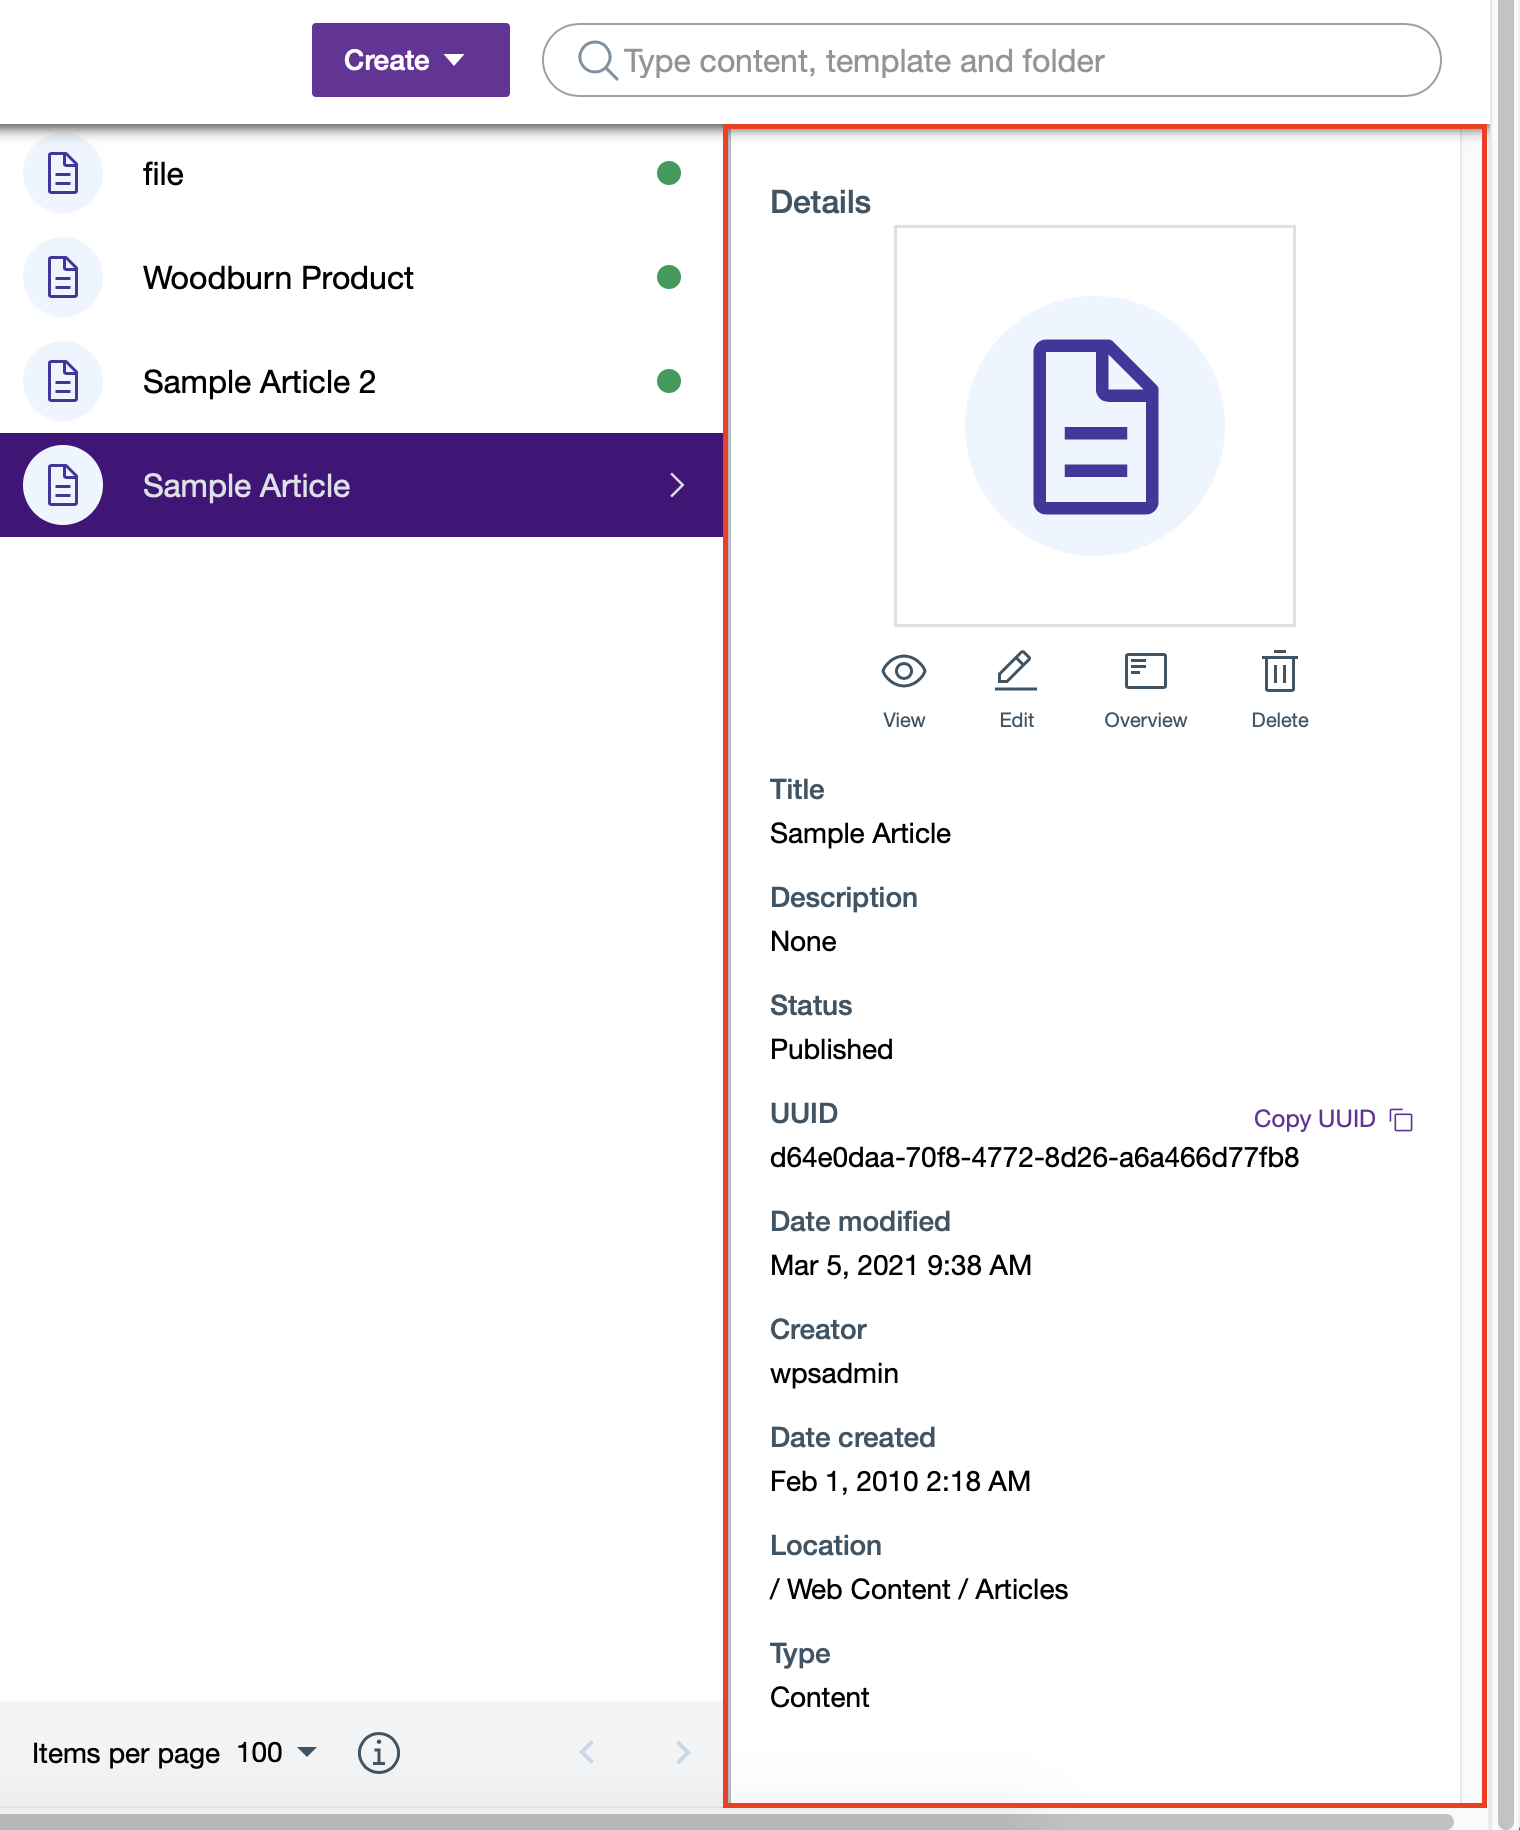
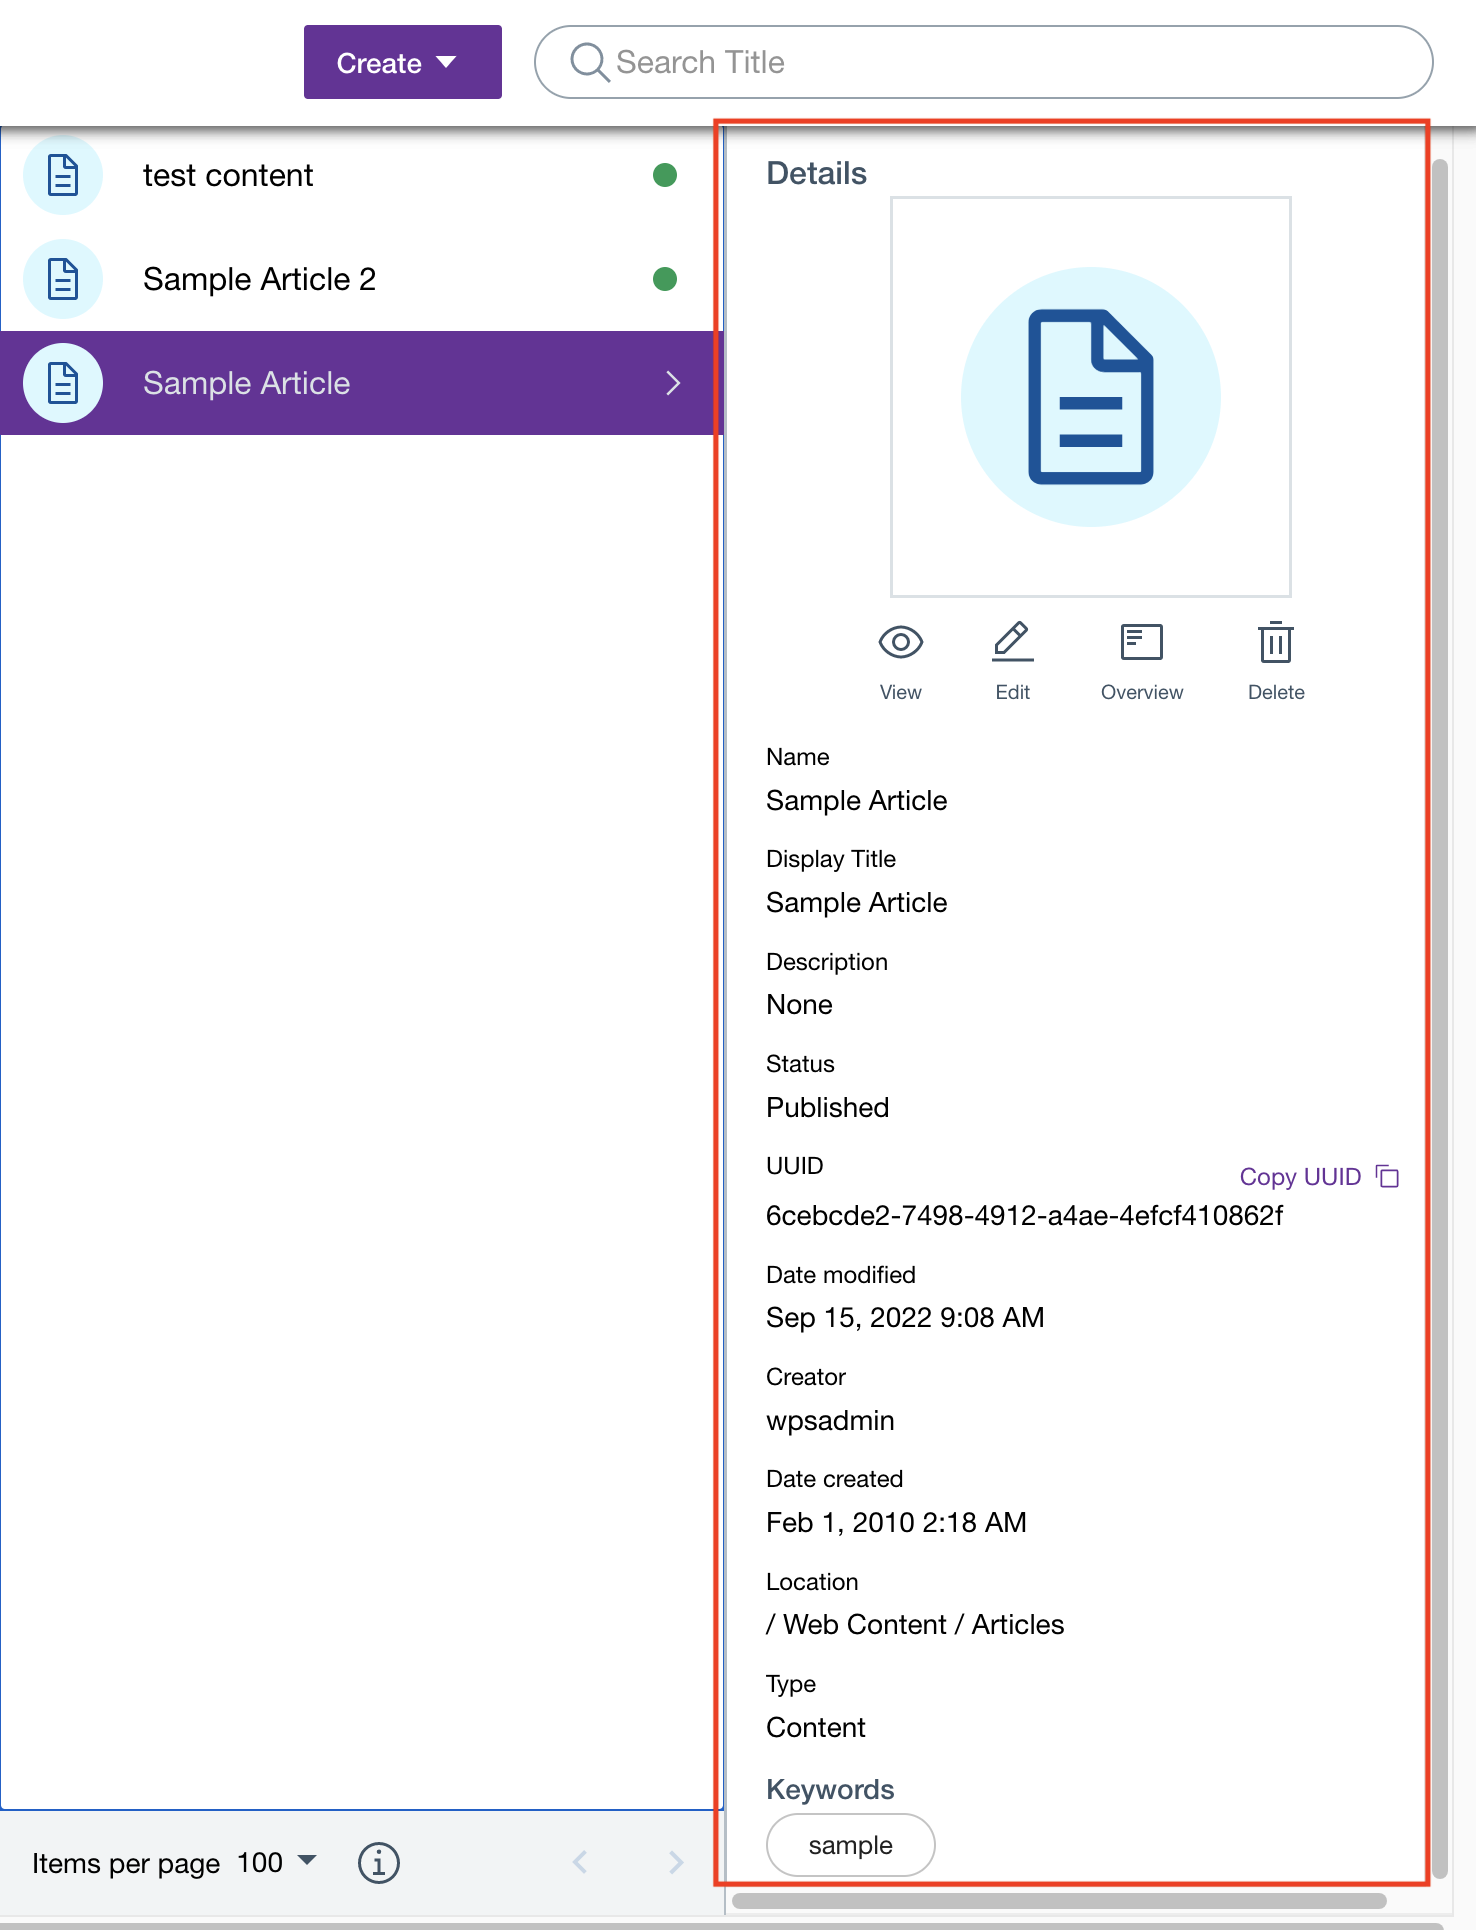
Add keywords in Content Composer

diff --git a/docs/manage_content/content_composer/usage/author_and_manage_content_items/author_content_items.md b/docs/manage_content/content_composer/usage/author_and_manage_content_items/author_content_items.md
@@ -98,6 +98,54 @@ The **Dashboard** view allows users to perform content authoring actions.
     ![Authoring actions on HCL Content Composer Dashboard](../../../../assets/Authoring_actions_via_HCL_CC_Dashboard.png)
 
 
+## Create new content with default keywords
+
+Follow the steps to create a new content with auto-populated keywords from the Dashboard view:
+
+1.  From the HCL Digital Experience 9.5 Content Composer Dashboard, locate your content template with Default Content Keywords, hover to the icon to display checkbox then click it.
+    
+    ![](../../../../assets/HCL_Content_Composer_DefaultKeyword_Checkbox.png)
+
+2.  Click **Create Content** in the actions bar.
+
+    ![](../../../../assets/HCL_Content_Composer_DefaultKeyword_ActionBar.png)
+
+3.  The Content Template and Keywords in Properties will be auto populated as shown below.
+
+    ![](../../../../assets/HCL_Content_Composer_DefaultKeyword.png)
+
+4.  Complete the fields on the **Content** tab, of which the content author will be directed to by default.
+5.  When done, select **Save** to save your settings and create your new content, or **Save and Close** which will create your new content with the saved settings and will redirect you to the new content's location in the Content Composer dashboard.
+
+
+## Create new content and add/remove keywords
+
+Follow the steps to create a new content and add keywords from the Dashboard view:
+
+1.  From the HCL Digital Experience 9.5 Content Composer Dashboard, locate your content template, hover to the icon to display checkbox then click it.
+    
+    ![](../../../../assets/HCL_Content_Composer_Sample_Template.png)
+
+2.  Click **Create Content** in the actions bar.
+
+    ![](../../../../assets/HCL_Content_Composer_Sample_Template_Create_Content.png)
+
+3.  Click the **Properties** icon, which is on the right side as shown below.
+
+    ![](../../../../assets/HCL_Content_Composer_Properties_Tab.png)
+
+4.  Add a keyword by inputting in the Keywords Field shown below. You can also add multiple keywords by adding a delimeter (,) in between the keywords.
+
+    ![](../../../../assets/HCL_Content_Composer_Content_Add_Keywords.png)
+
+5. If you want to remove a keyword, just click the 'x' button of the keyword you want to delete as shown below.
+
+    ![](../../../../assets/HCL_Content_Composer_Content_Remove_Keyword.png)
+
+6.  Complete the fields on the **Content** tab, of which the content author will be directed to by default.
+7.  When done, select **Save** to save your settings and create your new content, or **Save and Close** which will create your new content with the saved settings and keywords and will redirect you to the new content's location in the Content Composer dashboard.
+
+
 ## HCL Digital Experience Solution Feedback
 
 HCL Digital Experience is interested in your experience and feedback working with HCL Digital Experience 9.5 release software. To offer comments or issues on your findings, please access the [HCL Digital Experience 9.5 Feedback Reporting application](https://www.hclleap.com/apps/secure/org/app/158bbc7c-f357-4ef0-8023-654dd90780d4/launch/index.html?form=F_Form1){:target="_blank"}.

diff --git a/docs/manage_content/content_composer/usage/access_content_cont_comp.md b/docs/manage_content/content_composer/usage/access_content_cont_comp.md
@@ -53,6 +53,8 @@ The HCL Content Composer Dashboard has the following components:
 
     -   Content type
 
+    -   Content keywords
+
     ![Content metadata column](../../../images/Content_metadata_column.png "Content metadata column")
 
     Content users can also access view, editing and delete options of the selected content or content template in this column.
